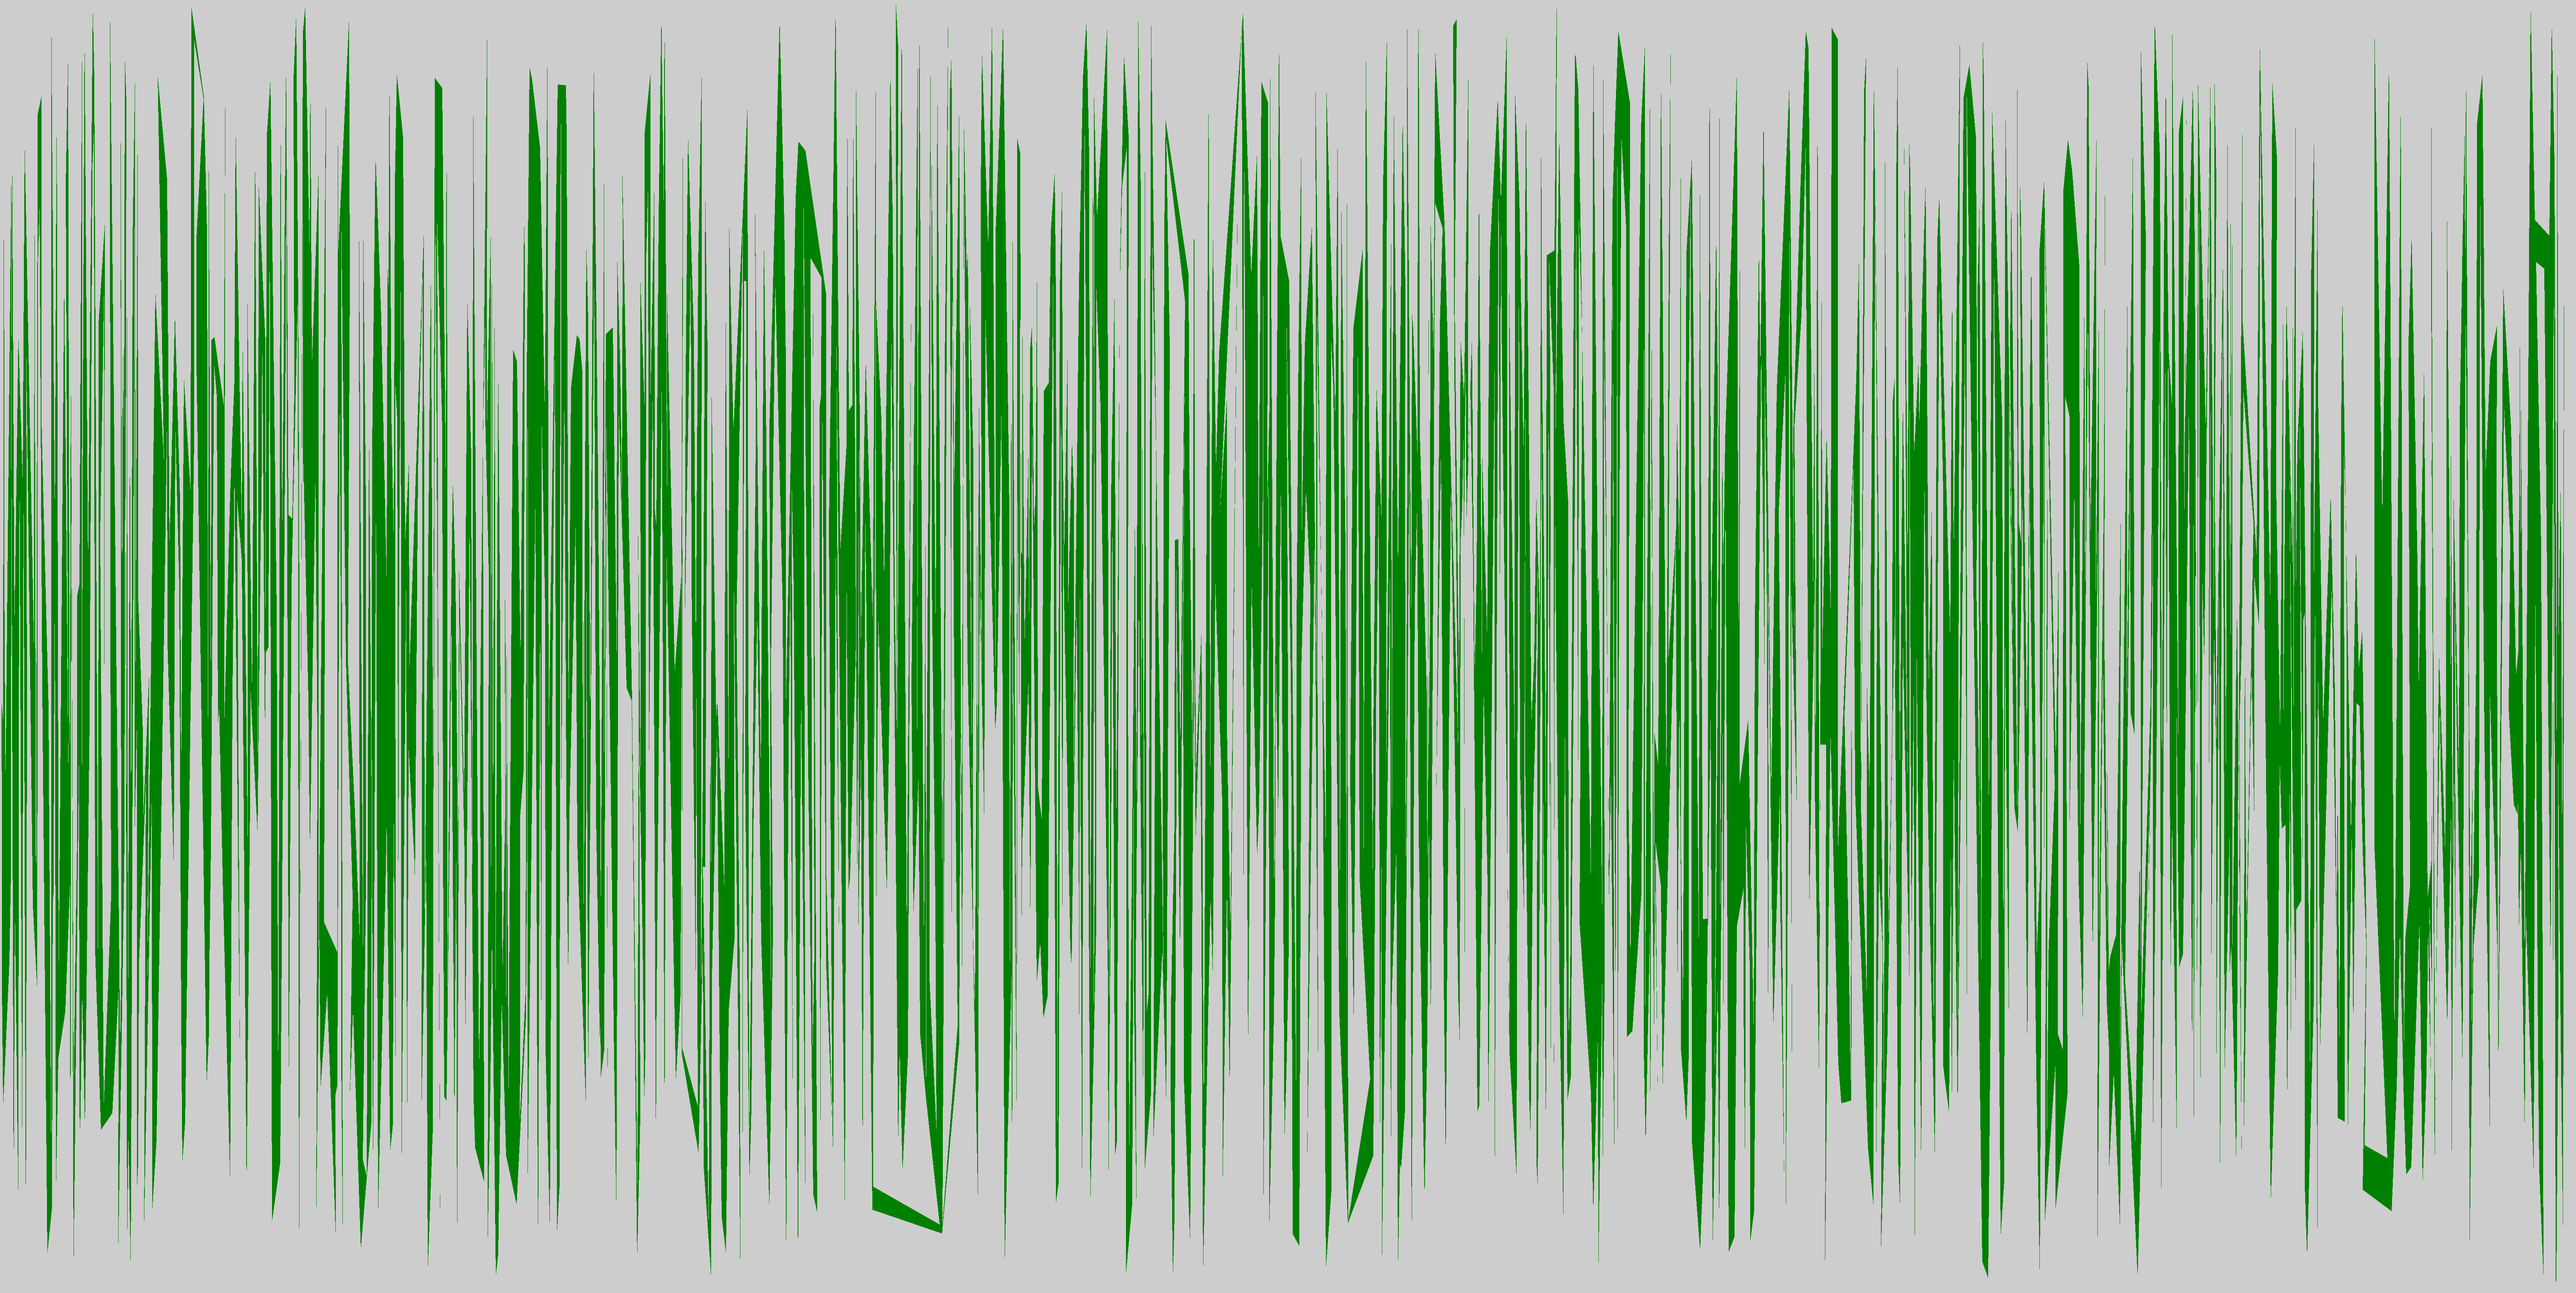
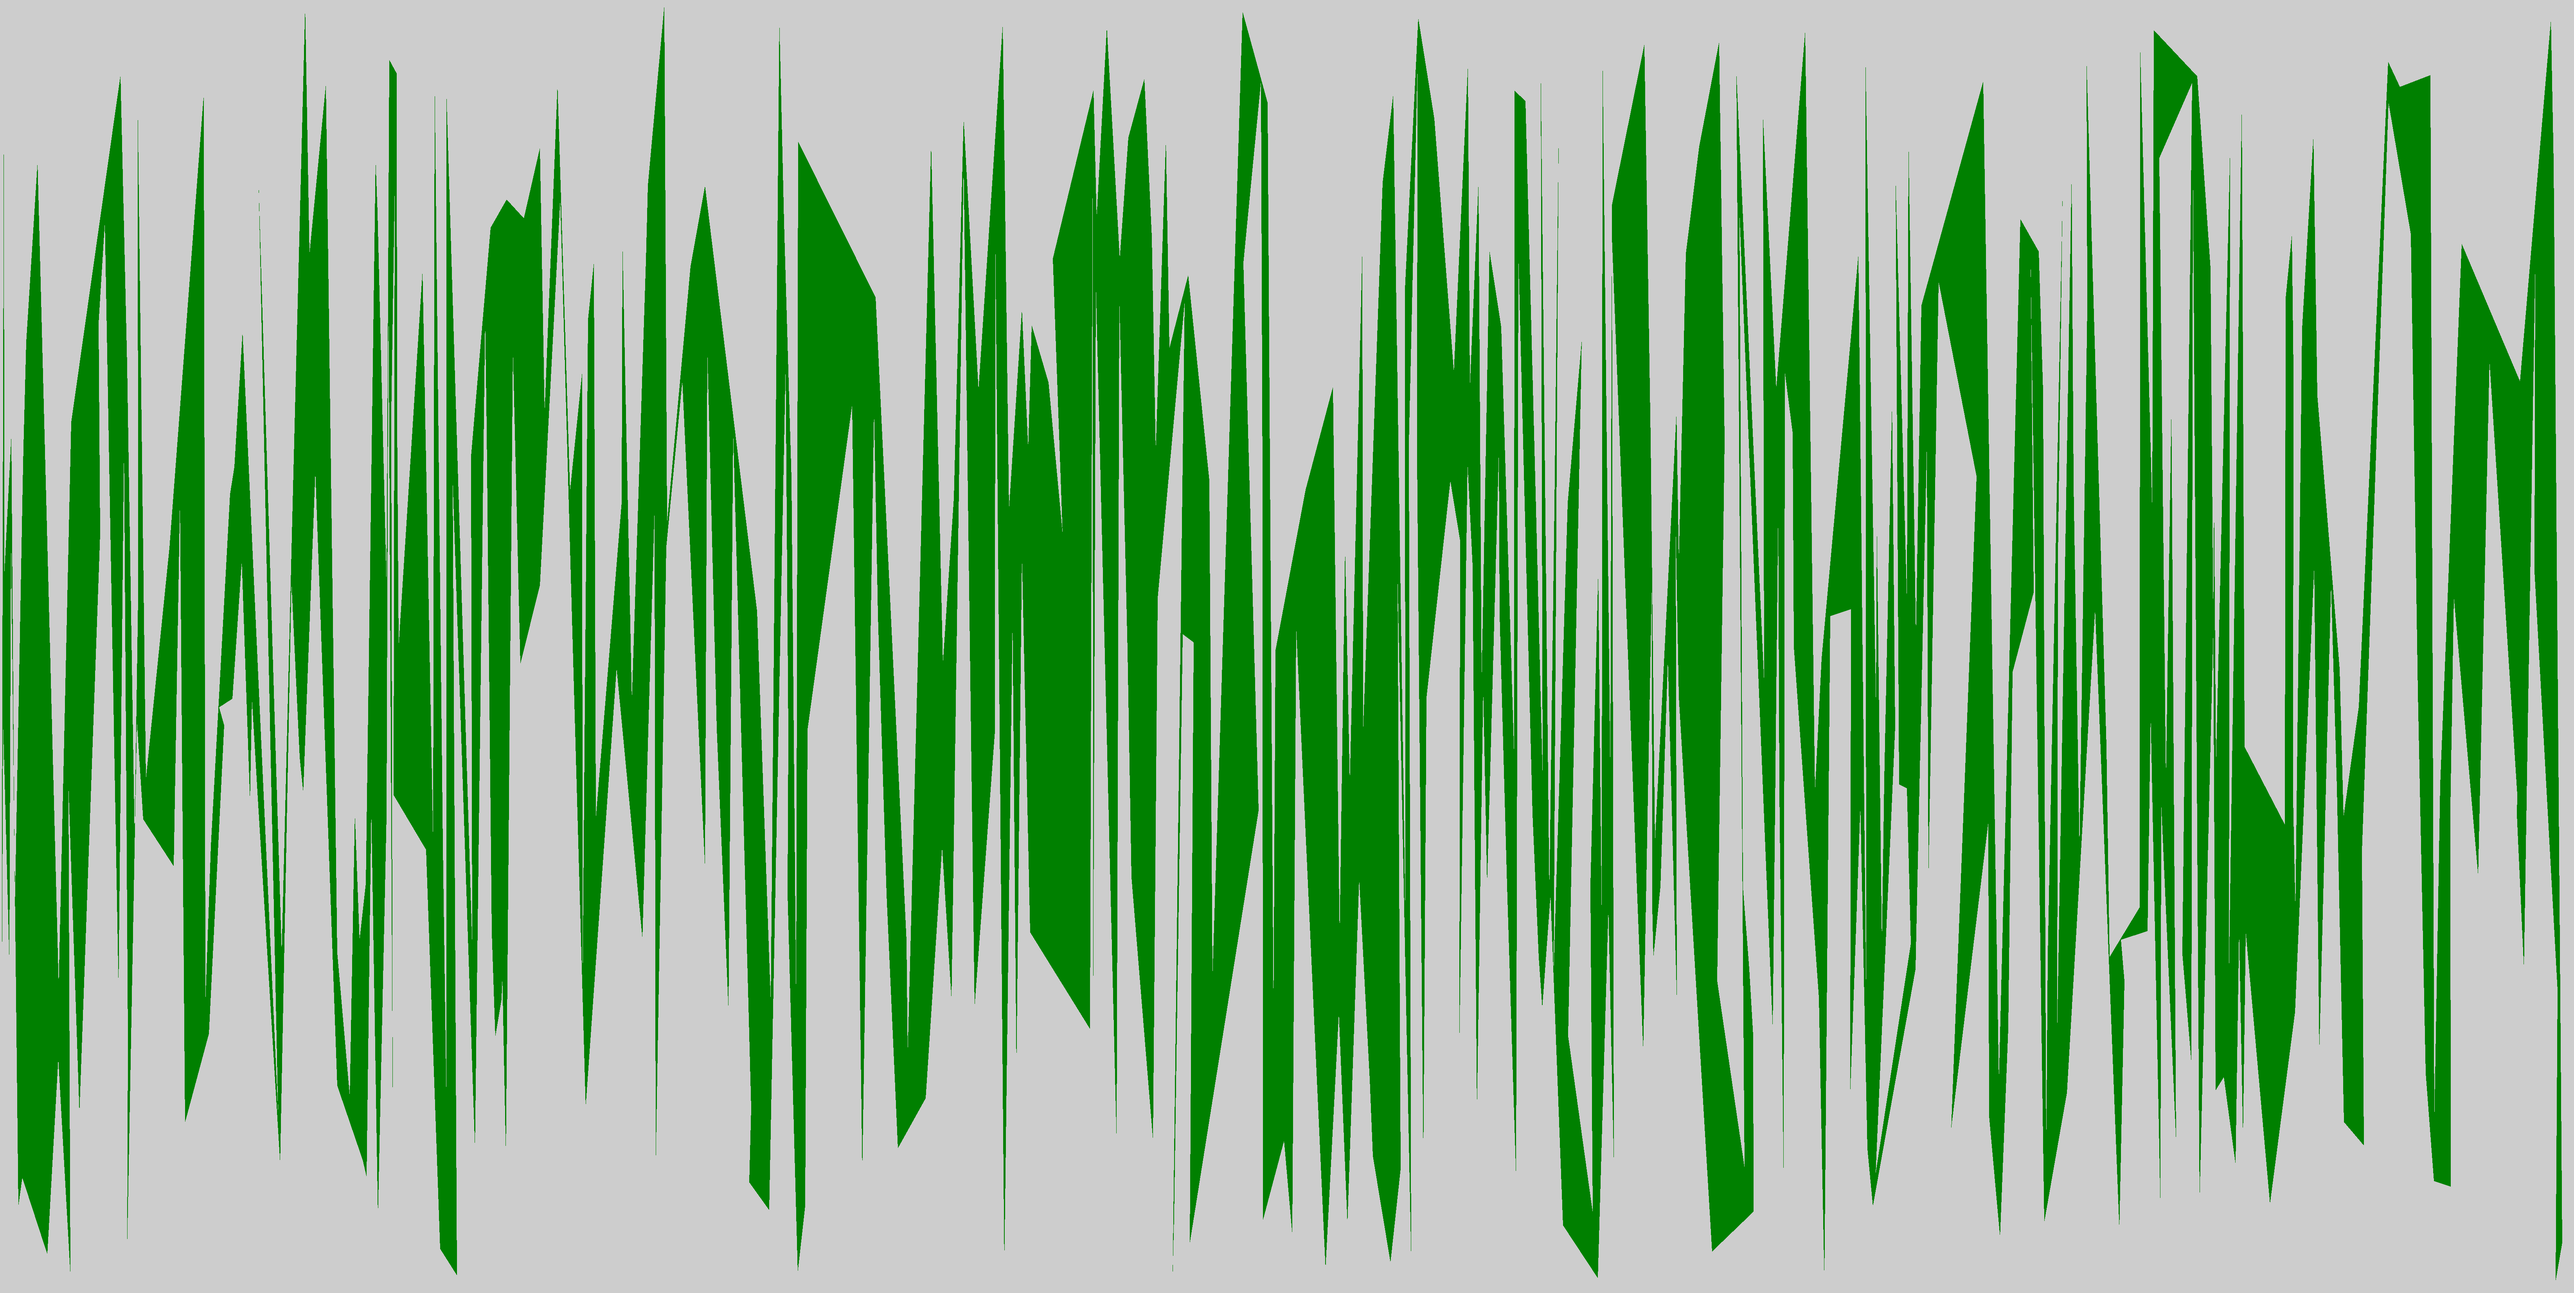
Modified points generation

diff --git a/OGKG_Lab_Gui/MinimumAreaPolygonization.cpp b/OGKG_Lab_Gui/MinimumAreaPolygonization.cpp
@@ -524,37 +524,13 @@ void MinimumAreaPolygonization::brute_optimal_polygon(vector<pdd> & v, int l, in
 void MinimumAreaPolygonization::preprocess(vector<pdd> & v) {
 	sort(v.begin(), v.end());
 
+	return;
+	/*
 	if (v.size() < 3) return;
-/*
-	map<pdd, pdd> mp1, mp2;
-
-	pdd mid = { 0, 0 };
-	for (const auto & e : v) {
-		mid.first += e.first;
-		mid.second += e.second;
-	}
-	mid.first /= v.size(), mid.second /= v.size();
-
-	for (const auto & e : v) {
-		double mx = e.first - mid.first;
-		double my = e.second - mid.second;
-#define sgn(a) (a >= 0.0 ? 1 : -1)
-		double d = sqrt(sqrt(mx * mx + my * my));
-		d = sqrt(d * log(log(d + 1) + 1));
-		double new_x = e.first + sgn(mx) * abs(mx) * d;
-		double new_y = e.second + sgn(my) * abs(my) * d;
-		mp1[e] = { new_x, new_y };
-		mp2[{ new_x, new_y }] = e;
-	}
-
-	for (int i = 0; i < v.size(); ++i) {
-		v[i] = mp1[v[i]];
-	}*/
 
 	vector<pdd> s = { v[0], v[1] };
 	for (int i = 2; i < v.size(); ++i) {
 		while (s.size() > 1) {
-			break;
 
 			int n = s.size();
 			pdd a = { s[n - 1].first - s[n - 2].first, s[n - 1].second - s[n - 2].second };
@@ -571,7 +547,7 @@ void MinimumAreaPolygonization::preprocess(vector<pdd> & v) {
 
 	//qDebug() << "Removed " << v.size() - s.size() << " points";
 
-	v = s;
+	v = s;*/
 }
 
 vector<pdd> MinimumAreaPolygonization::solve(vector<pdd> & v, int l, int r) {

diff --git a/OGKG_Lab_Gui/OGKG_Lab_Gui.cpp b/OGKG_Lab_Gui/OGKG_Lab_Gui.cpp
@@ -52,24 +52,30 @@ set<QPoint, decltype(comp)>::iterator Next(set<QPoint, decltype(comp)>::iterator
 	return next(it);
 }
 
-bool at_one_line(QPoint a, QPoint b, QPoint c) {
+inline bool at_one_line(QPoint a, QPoint b, QPoint c) {
 	int A = a.y() - c.y();
 	int B = c.x() - a.x();
 	int C = a.x() * c.y() - c.x() * a.y();
 	return !(A * b.x() + B * b.y() + C);
 }
 
+inline bool scale_compare(const QPoint & p1, const QPoint & p2) {
+	return (p1 == p2) || (p1.x() / 5 == p2.x() / 5 && p1.y() / 10 && p2.y() / 10);
+}
+
 void OGKG_Lab_Gui::generateNewPoints() {
 	int n = ui.newPointsAmount->value();
 	int x_max = n + ui.PlotWidget->getPoints().size() > MAX_PONITS_TO_PLOT ? 50000 : (int)ui.PlotWidget->size().width();
 	int y_max = n + ui.PlotWidget->getPoints().size() > MAX_PONITS_TO_PLOT ? 50000 : (int)ui.PlotWidget->size().height();
+	
+
 	while (n--) {
 		int x = rand() % x_max;
 		int y = rand() % y_max;
 		QPoint point(x, y);
 
 		auto it = used_points.lower_bound(point);
-		if (it != used_points.end() && *it == point) {
+		if (it != used_points.end() && scale_compare(*it, point)) {
 			++n;
 			continue;
 		}
